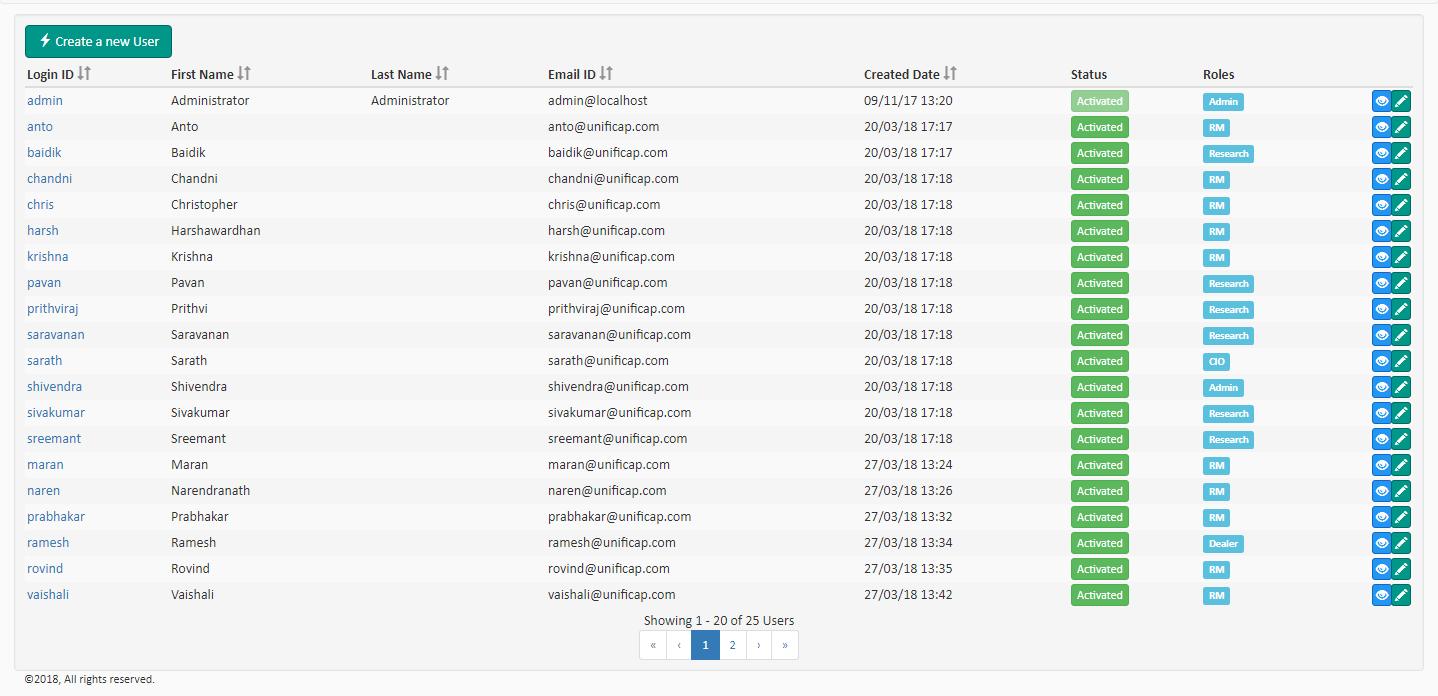
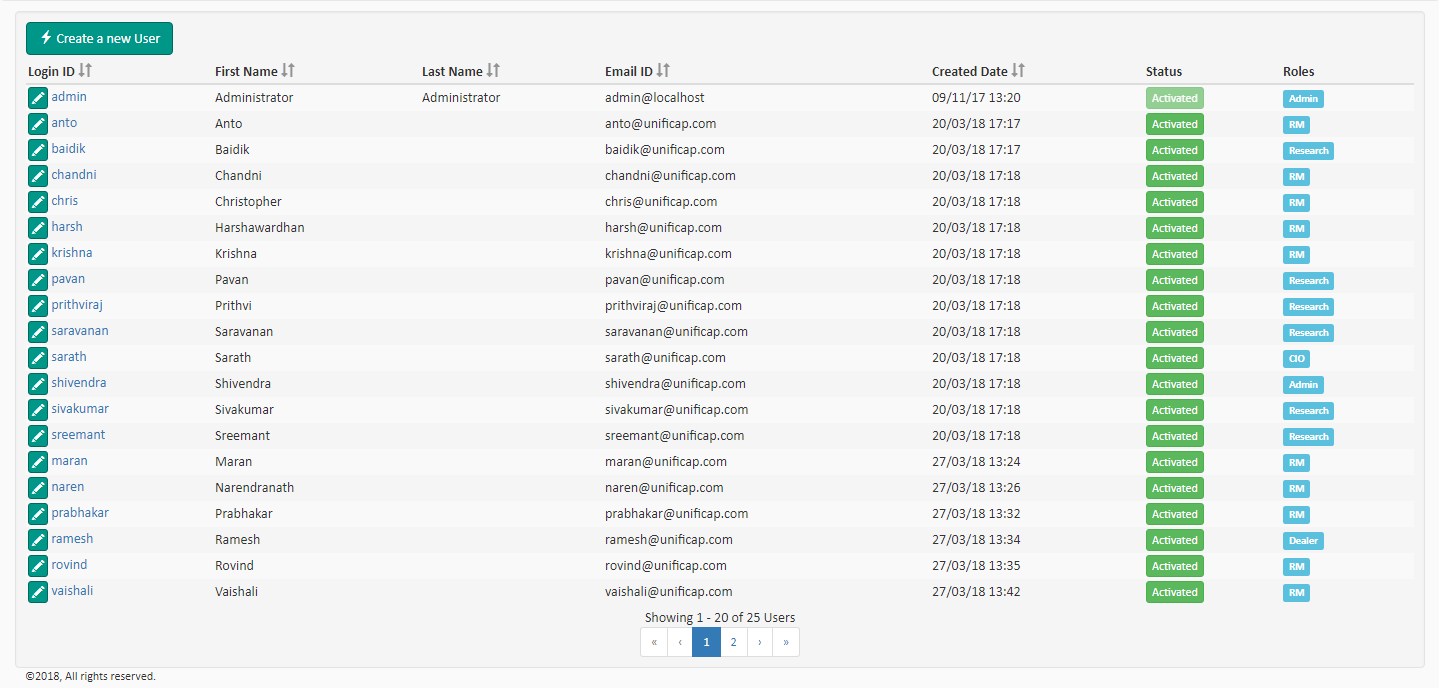
blogs completed

diff --git a/src/main/webapp/app/blogs/blogs.html b/src/main/webapp/app/blogs/blogs.html
@@ -1,29 +1,14 @@
-
-<div class="col-md-3">
-<div class="panel panel-default" has-any-authority="Admin,Research,CIO">
-    <div class="panel-heading"><a ui-sref="opportunity-master">Opportunity Master
-    </a></div>
-
-        <div class="panel-body">
-            <a ui-sref="opportunity-master">
-            <img src="content/images/opportunity.png" style="height:167px;width: 301px" alt="" class="img-responsive center-block" />
-            </a>
-        </div>
-
-</div>
-</div>
-
-<div class="col-md-3">
-    <div class="panel panel-default" has-any-authority="Admin,Research,CIO">
-        <div class="panel-heading"><a ui-sref="strategy-master">Strategy Master
+<div class="col-md-3" has-authority="Research">
+    <div class="panel panel-default">
+        <div class="panel-heading" style="text-align: center"><a ui-sref="home">Dashboard
         </a></div>
 
 
-                <div class="panel-body">
-                    <a ui-sref="strategy-master">
-                    <img src="content/images/strategy.png" style="height:167px;width: 301px" alt="" class="img-responsive center-block" />
-                    </a>
-                </div>
+        <div class="panel-body">
+            <a ui-sref="home">
+                <img src="content/images/Dashboard.png" style="height:167px;width: 301px" alt="" class="img-responsive center-block" />
+            </a>
+        </div>
 
 
     </div>
@@ -31,33 +16,67 @@
 
 <div class="col-md-3"  has-authority="Admin">
     <div class="panel panel-default">
-        <div class="panel-heading"><a ui-sref="user-management">User Management
+        <div class="panel-heading" style="text-align: center"><a ui-sref="user-management">Dashboard
         </a></div>
 
 
-                <div class="panel-body">
-                    <a ui-sref="user-management">
-                    <img src="content/images/User.png" style="height:167px;width: 301px" alt="" class="img-responsive center-block" />
-                    </a>
-                </div>
+        <div class="panel-body">
+            <a ui-sref="user-management">
+                <img src="content/images/User.png" style="height:167px;width: 301px" alt="" class="img-responsive center-block" />
+            </a>
+        </div>
 
     </div>
 </div>
-<div class="col-md-3">
-    <div class="panel panel-default" has-authority="Research">
-        <div class="panel-heading"><a ui-sref="home">Dashboard
+
+<div class="col-md-3" has-any-authority="Admin,Research,CIO">
+    <div class="panel panel-default">
+        <div class="panel-heading" style="text-align: center" has-any-authority="!CIO,Admin,Research"><a ui-sref="strategy-master">Strategy Master
+        </a></div>
+
+        <div class="panel-heading" style="text-align: center" has-any-authority="CIO,!Research,!Admin"><a ui-sref="strategy-master">Dashboard
         </a></div>
 
 
-                <div class="panel-body">
-                    <a ui-sref="home">
-                    <img src="content/images/Dashboard.png" style="height:167px;width: 301px" alt="" class="img-responsive center-block" />
-                    </a>
-                </div>
+        <div class="panel-body" has-any-authority="!CIO,!Admin,Research">
+            <a ui-sref="strategy-master">
+                <img src="content/images/strategy.png" style="height:167px;width: 301px" alt="" class="img-responsive center-block" />
+            </a>
+        </div>
+
+        <div class="panel-body" has-any-authority="CIO,Admin,!Research">
+            <a ui-sref="strategy-master">
+                <img src="content/images/strategy_admin.png" style="height:167px;width: 301px" alt="" class="img-responsive center-block" />
+            </a>
+        </div>
 
 
     </div>
 </div>
+
+<div class="col-md-3" has-any-authority="Admin,Research,CIO">
+<div class="panel panel-default">
+    <div class="panel-heading" style="text-align: center"><a ui-sref="opportunity-master">Opportunity Master
+    </a></div>
+
+        <div class="panel-body" has-any-authority="!CIO,!Admin,Research">
+            <a ui-sref="opportunity-master">
+            <img src="content/images/opportunity.png" style="height:167px;width: 301px" alt="" class="img-responsive center-block" />
+            </a>
+        </div>
+
+        <div class="panel-body" has-any-authority="CIO,Admin,!Research">
+            <a ui-sref="opportunity-master">
+                <img src="content/images/opp_admin.png" style="height:167px;width: 301px" alt="" class="img-responsive center-block" />
+            </a>
+        </div>
+
+</div>
+</div>
+
+
+
+
 
 
 

diff --git a/src/main/webapp/app/entities/strategy-master/strategy-masters.html b/src/main/webapp/app/entities/strategy-master/strategy-masters.html
@@ -13,10 +13,7 @@
 
 <div>
     <div class="well">
-        <div class="row">
 
-        <div ng-include src="'app/blogs/blogs.html'"></div>
-        </div>
 
     <jhi-alert></jhi-alert>
 
@@ -63,29 +60,29 @@
             <tbody infinite-scroll="vm.loadPage(vm.page + 1)" infinite-scroll-disabled="vm.page >= vm.links['last']">
                 <tr ng-repeat="strategyMaster in vm.strategyMasters track by strategyMaster.id">
 
-                    <td><a ui-sref="strategy-master-detail({id:strategyMaster.id})">{{strategyMaster.strategyName}}</a></td>
+                    <td><button type="submit"
+                                      ui-sref="strategy-master.edit({id:strategyMaster.id})"
+                                      class="btn btn-primary btn-sm"
+                                      tooltip="edit"
+                                      tooltip-placement="bottom" has-authority="Research">
+                        <span class="glyphicon glyphicon-pencil"></span>
+                        <span class="hidden-sm-down"></span>
+                    </button> <a ui-sref="strategy-master-detail({id:strategyMaster.id})">{{strategyMaster.strategyName}}</a></td>
                     <td>{{strategyMaster.aum}}</td>
 
                     <td>{{strategyMaster.totalStocks}}</td>
 
                     <td class="text-right">
                         <div class="btn-group flex-btn-group-container">
-                            <button type="submit"
+                        <!--    <button type="submit"
                                     ui-sref="strategy-master-detail({id:strategyMaster.id})"
                                     class="btn btn-info btn-sm" data-toggle="tooltip"
                                      tooltip="view"
          							 tooltip-placement="bottom">
                                 <span class="glyphicon glyphicon-eye-open"></span>
                                 <span class="hidden-sm-down"></span>
-                            </button>
-                            <button type="submit"
-                                    ui-sref="strategy-master.edit({id:strategyMaster.id})"
-                                    class="btn btn-primary btn-sm"
-                                     tooltip="edit"
-         							 tooltip-placement="bottom">
-                                <span class="glyphicon glyphicon-pencil"></span>
-                                <span class="hidden-sm-down"></span>
-                            </button>
+                            </button>-->
+
                     <!--        <button type="submit"
                                     ui-sref="strategy-master.delete({id:strategyMaster.id})"
                                     class="btn btn-danger btn-sm"

diff --git a/src/main/webapp/app/admin/user-management/user-management.html b/src/main/webapp/app/admin/user-management/user-management.html
@@ -4,9 +4,7 @@
 
     <jhi-alert></jhi-alert>
 
-             <div class="row">
-             <div ng-include src="'app/blogs/blogs.html'"></div>
-             </div>
+
         <div class="row">
         <div class="col-md-2">
           <button class="btn btn-primary" ui-sref="user-management.new">
@@ -35,7 +33,12 @@
             <tbody>
             <tr ng-repeat="user in vm.users track by user.id">
                 <!--<td><a ui-sref="user-management-detail({login:user.login})">{{user.id}}</a></td>-->
-                <td><a ui-sref="user-management-detail({login:user.login})">{{user.login}}</a></td>
+                <td><button type="submit"
+                                  ui-sref="user-management.edit({login:user.login})"
+                                  class="btn btn-primary btn-sm">
+                    <span class="glyphicon glyphicon-pencil"></span>
+                    <span class="hidden-xs hidden-sm"></span>
+                </button> <a ui-sref="user-management-detail({login:user.login})">{{user.login}}</a></td>
                 <td>{{user.firstName}}</td>
                 <td>{{user.lastName}}</td>
                 <td>{{user.email}}</td>
@@ -59,18 +62,13 @@
                <!--  <td>{{user.userId.login}}</td> -->
                 <td class="text-right">
                     <div class="btn-group flex-btn-group-container">
-                        <button type="submit"
+                  <!--      <button type="submit"
                                 ui-sref="user-management-detail({login:user.login})"
                                 class="btn btn-info btn-sm">
                             <span class="glyphicon glyphicon-eye-open"></span>
                             <span class="hidden-xs hidden-sm"></span>
-                        </button>
-                        <button type="submit"
-                                ui-sref="user-management.edit({login:user.login})"
-                                class="btn btn-primary btn-sm">
-                            <span class="glyphicon glyphicon-pencil"></span>
-                            <span class="hidden-xs hidden-sm"></span>
-                        </button>
+                        </button>-->
+
                         <!--<button type="submit"
                                 ui-sref="user-management.delete({login:user.login})"
                                 class="btn btn-danger btn-sm" ng-disabled="vm.currentAccount.login === user.login">

diff --git a/src/main/webapp/app/components/login/login.controller.js b/src/main/webapp/app/components/login/login.controller.js
@@ -41,7 +41,7 @@
         var myDate=new Date();
 
         $scope.currentYear = $filter('date')(myDate,'yyyy');
-
+/*
         Principal.identity().then(function(account) {
            // console.log("njdsnnkskj--->",account);
             vm.roles = account;
@@ -59,7 +59,7 @@
                     if (vm.roles.authorities[1] == 'Admin') {
 
                         $state.go('user-management');
-                      /*  $state.go('blogs');*/
+                      /!*  $state.go('blogs');*!/
                     }
                     else {
                         $state.go('home');
@@ -67,7 +67,7 @@
 
                 }
             }
-            });
+            });*/
 
            console.log("djfsjfjsd--->",vm.roles);
 
@@ -97,7 +97,7 @@
                     $state.go(previousState.name, previousState.params);
                 } else {
                     Principal.identity().then(function(account) {
-                        console.log("njdsnnkskj--->",account);
+                    /*    console.log("njdsnnkskj--->",account);
                         vm.roles = account;
                         console.log(vm.roles.authorities);
                         if(vm.roles.authorities[1] == 'CIO')
@@ -109,19 +109,20 @@
 
                             if(vm.roles.authorities[1] == 'Admin')
                             {
-                              /*  $state.go('user-management');*/
+                              /!*  $state.go('user-management');*!/
                                 $state.go('blogs');
                             }
                             else{
                                 $state.go('home');
                             }
 
-                   }
+                   }*/
 
 
 
 
                     });
+                    $state.go('blogs');
                     }
 
             }).catch(function () {

diff --git a/src/main/webapp/app/entities/opportunity-master/opportunity-masters.html b/src/main/webapp/app/entities/opportunity-master/opportunity-masters.html
@@ -36,7 +36,12 @@
             <tbody>
                 <tr ng-repeat="opportunityMaster in vm.opportunityMasters | filter: searchKeyword">
 
-                    <td><a ui-sref="opportunity-master-detail({id:opportunityMaster.id})">{{opportunityMaster.masterName.oppName}}
+                    <td> <button type="submit"
+                                 ui-sref="opportunity-master.edit({id:opportunityMaster.id})"
+                                 class="btn btn-primary btn-sm" ng-if="vm.account.login==opportunityMaster.createdBy || opportunityMaster.createdBy==vm.account.userId.login">
+                        <span class="glyphicon glyphicon-pencil"></span>
+                        <span class="hidden-sm-down"></span>
+                    </button> <a ui-sref="opportunity-master-detail({id:opportunityMaster.id})">{{opportunityMaster.masterName.oppName}}
                     </a></td>
                      <td> {{opportunityMaster.masterName.sectorType}}</td>
                     <td>{{opportunityMaster.oppDescription}}</td>
@@ -51,7 +56,7 @@
 
                     <td class="text-right">
                         <div class="btn-group flex-btn-group-container">
-                            <button type="submit"
+                       <!--     <button type="submit"
                                     ui-sref="opportunity-master-detail({id:opportunityMaster.id})"
                                     class="btn btn-info btn-sm">
                                 <span class="glyphicon glyphicon-eye-open"></span>

diff --git a/src/main/webapp/app/home/home.html b/src/main/webapp/app/home/home.html
@@ -53,6 +53,8 @@ border:none !important;
     .fixed-column thead,.fixed-column tbody{
         background: white!important;
     }
+
+
 </style>
  <div ng-cloak>
 
@@ -76,7 +78,7 @@ border:none !important;
 
     <div class="row">
 
-        <div ng-include src="'app/blogs/blogs.html'"></div>
+
         <div class="col-md-12">
          <!--   <h1>Welcome!</h1>-->
 
@@ -86,9 +88,9 @@ border:none !important;
                     You are logged in as user "{{vm.account.login |capitalize}}".
                     <br>
                     </div>-->
-                     <div class="scrollmenu" table-scroll" id="table-scroll">
+                     <div class="scrollmenu table-scroll" id="table-scroll">
                       <div class="table-responsive">
-                         <table id="mytable" class="table table-striped table-bordered">
+                         <table id="mytable" class="table table-striped table-bordered table-hover table-condensed">
                              <thead>
 
                              <tr class="headborder">

diff --git a/src/main/webapp/app/blogs/blogs.state.js b/src/main/webapp/app/blogs/blogs.state.js
@@ -10,7 +10,7 @@
     function stateConfig($stateProvider) {
         $stateProvider.state('blogs', {
             parent: 'app',
-            url: '/blog',
+            url: '/index',
             data: {
                 authorities: [],
                 pageTitle: 'Research Repository & Learning System'
